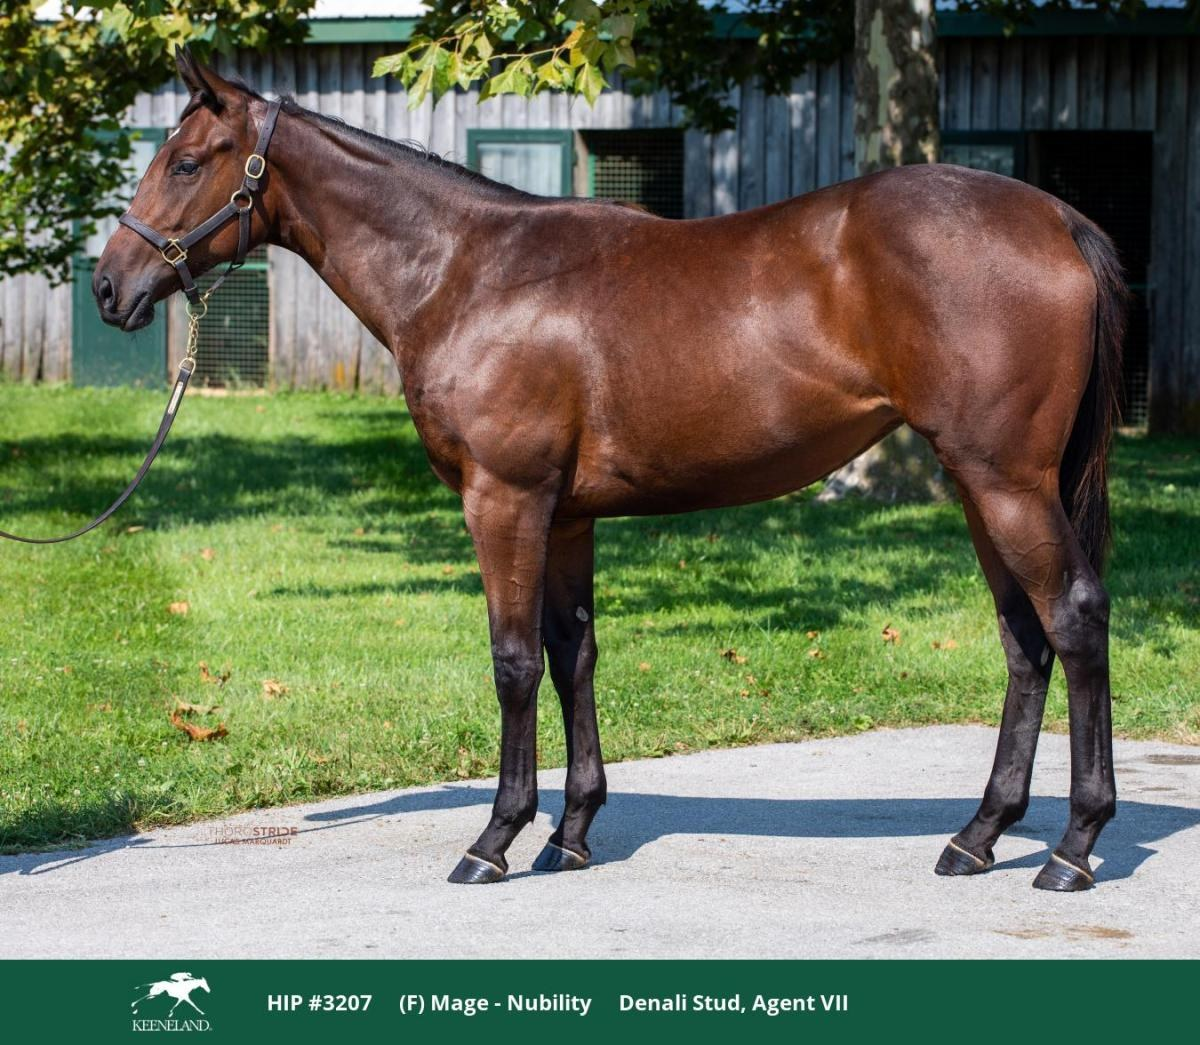
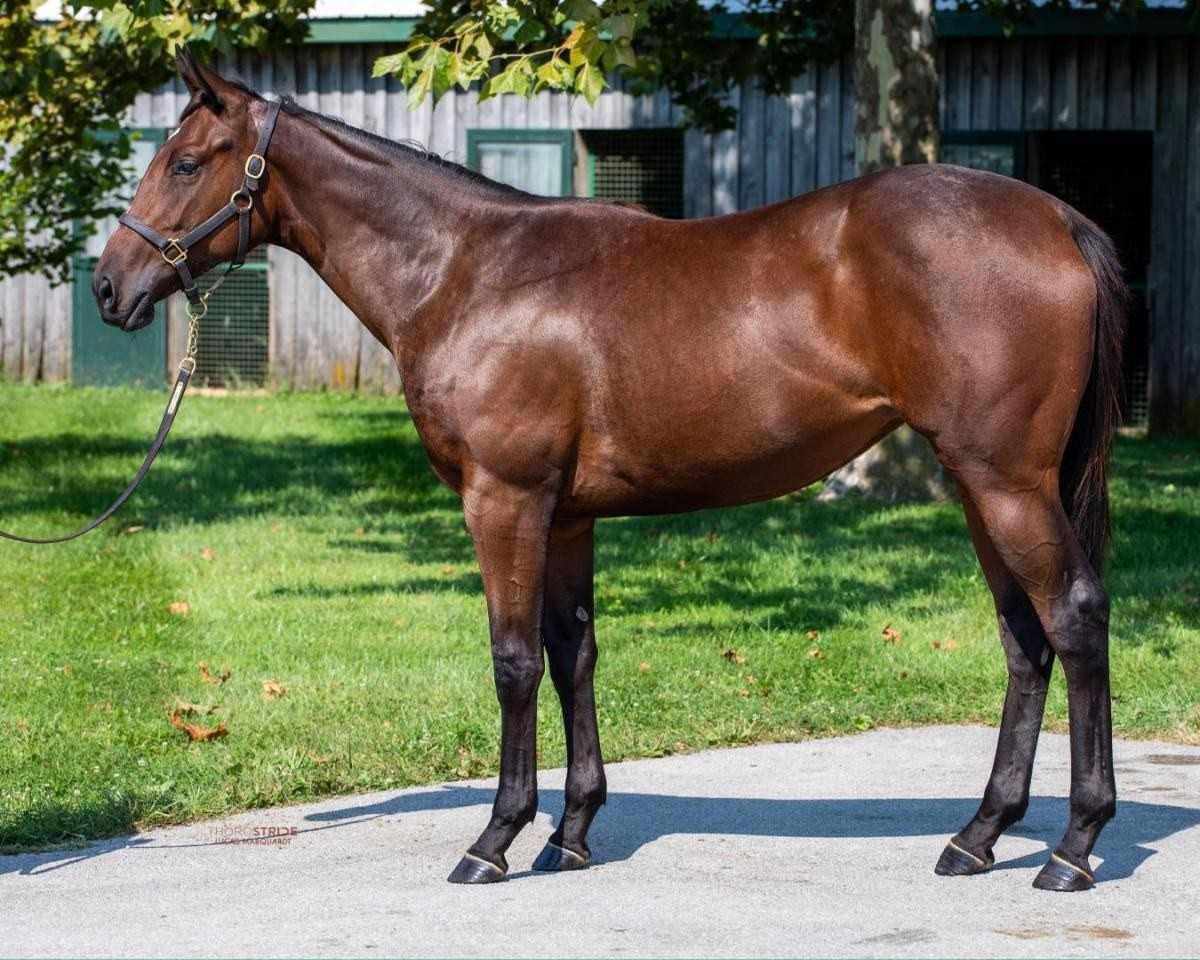
Crop Keeneland bar from sale photos and drop image to clear hip badge
The green Keeneland footer bar (85px of a 1200x1045 source) is removed
from both sale photos, and the image now sits that same distance lower
in the card so the hip badge lands on card background rather than over
the horse's head. Card image height is unchanged.

diff --git a/index.html b/index.html
@@ -247,6 +247,14 @@
             display: block;
         }
 
+        /* Sale photos have the Keeneland bar cropped off the bottom; the image
+           drops by that same amount so the hip badge sits clear of the horse.
+           85/1200 of the source width — percentage margins resolve against the
+           container width, so this holds at every card size. */
+        .card-image.sale-photo img {
+            margin-top: 7.08%;
+        }
+
         .placeholder-silhouette {
             width: 120px;
             height: 80px;
@@ -2833,7 +2841,7 @@ function createBroodmareCard(mare) {
 function createFoalCard(foal) {
     return `
         <div class="horse-card" onclick="openModal('foal', '${foal.name.replace(/'/g, "\\'")}')">
-            <div class="card-image">
+            <div class="card-image${foal.saleInfo ? ' sale-photo' : ''}">
                 ${foal.image
                     ? `<img src="${foal.image}" alt="${foal.name}">`
                     : `<svg class="placeholder-silhouette" viewBox="0 0 120 80">
